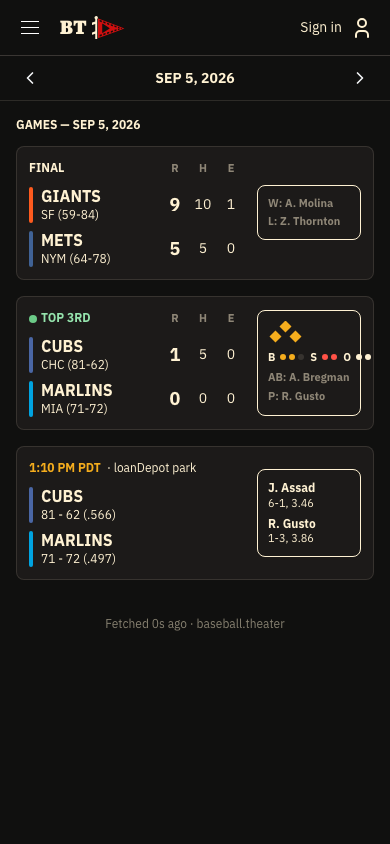
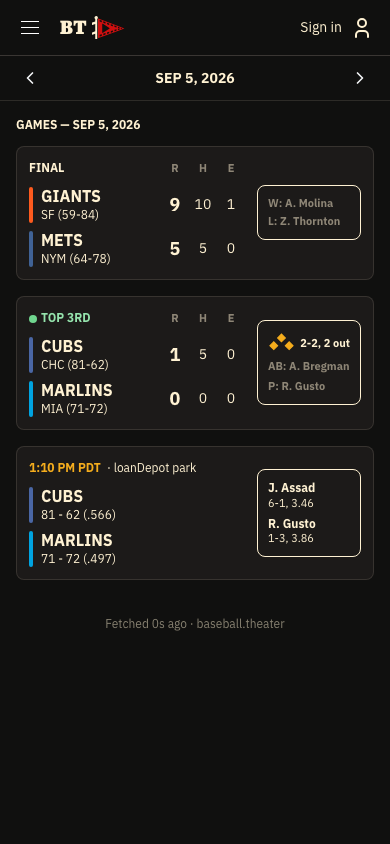
S67 checkpoint 2 (still parked for the owner's design match): the live slot's count is shorthand text, no pips (owner, 2026-10-30: "There shouldn't be pips in s67. BSO are just shorthand text as seen in the design"). countShorthand in packages/domain ("2-2, 2 out"), shown beside the BaseDiamond; the
Claude-Session: https://claude.ai/code/session_01FZHj4BTD58DQYzKRj8jroB

Changed region(s): [[0.6462, 0.3697, 0.9538, 0.4929], [0.8923, 0.4621, 0.9231, 0.4929]]

diff --git a/web/src/components/scoreboard/GameRowSlot.test.tsx b/web/src/components/scoreboard/GameRowSlot.test.tsx
@@ -85,22 +85,15 @@ describe("GameRowSlot Status (S67)", () =>
 		expect(slot.queryByText(/^S:/)).toBeNull();
 	});
 
-	it("count on a live game: the shared BaseDiamond and BsoPips (bases loaded, 2–2, two out), then AB / P", () =>
+	it("count on a live game: the shared BaseDiamond (bases loaded) beside the count as shorthand text, no pips, then AB / P", () =>
 	{
 		renderSlot(GAMES.live, "status");
 		const slot = within(screen.getByTestId("slot-count"));
 		expect(slot.getByRole("img", {
 			name: "Runners on second, third, first",
 		})).toBeInTheDocument();
-		expect(slot.getByRole("img", {
-			name: "Balls: 2 of 3",
-		})).toBeInTheDocument();
-		expect(slot.getByRole("img", {
-			name: "Strikes: 2 of 2",
-		})).toBeInTheDocument();
-		expect(slot.getByRole("img", {
-			name: "Outs: 2 of 2",
-		})).toBeInTheDocument();
+		expect(slot.getByText("2-2, 2 out")).toBeInTheDocument();
+		expect(slot.queryByTestId(/^pips-/)).toBeNull();
 		expect(slot.getByText("AB: A. Bregman")).toBeInTheDocument();
 		expect(slot.getByText("P: R. Gusto")).toBeInTheDocument();
 	});
@@ -246,14 +239,12 @@ function renderModule(game: ScoreboardGame)
 
 describe("sparse data (S66 module, S67 slot)", () =>
 {
-	it("sparse: a live game with no linescore or live moment reads LIVE, dashes for R·H·E, empty pips and no AB / P", () =>
+	it("sparse: a live game with no linescore or live moment reads LIVE, dashes for R·H·E, no count and no AB / P", () =>
 	{
 		renderModule(sparse("I"));
 		expect(screen.getByText("LIVE")).toBeInTheDocument();
 		expect(screen.getAllByTestId("runs").map((c) => c.textContent)).toEqual(["–", "–"]);
-		expect(screen.getByRole("img", {
-			name: "Balls: 0 of 3",
-		})).toBeInTheDocument();
+		expect(screen.queryByText(/out$/)).toBeNull();
 		expect(screen.queryByText(/^AB:/)).toBeNull();
 	});
 

diff --git a/web/src/components/scoreboard/GameRowSlot.tsx b/web/src/components/scoreboard/GameRowSlot.tsx
@@ -1,14 +1,13 @@
 import {
-	Anchor, Box, Stack, Text,
+	Anchor, Box, Group, Stack, Text,
 } from "@mantine/core";
 import type { ReactNode } from "react";
 import { Link } from "react-router-dom";
 import {
-	gamePhase, probableLine, roomsForPhase, slotOccupant,
+	countShorthand, gamePhase, probableLine, roomsForPhase, slotOccupant,
 } from "@bt/domain";
 import type { GameRowSlot as GameRowSlotSetting } from "@bt/domain";
 import { BaseDiamond } from "../game/BaseDiamond.js";
-import { BsoPips } from "../game/BsoPips.js";
 import { roomLabel, shortPlayerName } from "../game/format.js";
 import type { ScoreboardGame } from "./ScoreboardModule.js";
 
@@ -34,14 +33,20 @@ function PitchersOfRecord({ game }: { game: ScoreboardGame })
 	);
 }
 
-/** Live: the bases and the count, then who is batting and pitching. */
+/** Live: the bases beside the count as shorthand text (`0-2, 2 out`, no pips), then who is batting and pitching. */
 function Count({ game }: { game: ScoreboardGame })
 {
 	const live = game.live ?? null;
+	const count = live ? countShorthand(live) : null;
 	return (
 		<Stack gap={4} data-testid="slot-count">
-			<BaseDiamond live={live} />
-			<BsoPips balls={live?.balls ?? null} strikes={live?.strikes ?? null} outs={live?.outs ?? null} gap={6} />
+			<Group gap={6} wrap="nowrap">
+				<BaseDiamond live={live} />
+				{count ? <Text fz={11} fw={700} style={{
+					whiteSpace: "nowrap",
+				}}
+				>{count}</Text> : null}
+			</Group>
 			{live?.batterName ? <Line>AB: {shortPlayerName(live.batterName)}</Line> : null}
 			{live?.pitcherName ? <Line>P: {shortPlayerName(live.pitcherName)}</Line> : null}
 		</Stack>

diff --git a/packages/domain/src/slot-occupant.test.ts b/packages/domain/src/slot-occupant.test.ts
@@ -4,7 +4,9 @@ import {
 import type { GamePhase } from "./game-phase.js";
 import type { GameRowSlot } from "./settings.js";
 import type { SlotOccupant } from "./slot-occupant.js";
-import { probableLine, slotOccupant } from "./slot-occupant.js";
+import {
+	countShorthand, probableLine, slotOccupant,
+} from "./slot-occupant.js";
 
 describe("slotOccupant (S67)", () =>
 {
@@ -48,6 +50,32 @@ describe("probableLine (S67)", () =>
 			wins: null,
 			losses: null,
 			era: null,
+		})).toBeNull();
+	});
+});
+
+describe("countShorthand (S67)", () =>
+{
+	it("balls-strikes, then outs, as the frame writes it", () =>
+	{
+		expect(countShorthand({
+			balls: 0,
+			strikes: 2,
+			outs: 2,
+		})).toBe("0-2, 2 out");
+		expect(countShorthand({
+			balls: 3,
+			strikes: 1,
+			outs: null,
+		})).toBe("3-1");
+	});
+
+	it("null until MLB sends a count", () =>
+	{
+		expect(countShorthand({
+			balls: null,
+			strikes: 0,
+			outs: 1,
 		})).toBeNull();
 	});
 });

diff --git a/packages/domain/src/slot-occupant.ts b/packages/domain/src/slot-occupant.ts
@@ -33,3 +33,17 @@ export function probableLine(pitcher: Pick<ProbablePitcher, "wins" | "losses" | 
 	const parts = [record, pitcher.era].filter((part): part is string => part !== null);
 	return parts.length > 0 ? parts.join(", ") : null;
 }
+
+/**
+ * The count as the live slot writes it, `0-2, 2 out` — balls-strikes, then outs, as
+ * shorthand text, not pips (owner, 2026-10-30: "BSO are just shorthand text as seen in
+ * the design"). `null` until MLB sends a count.
+ */
+export function countShorthand(count: { balls: number | null;
+	strikes: number | null;
+	outs: number | null; }): string | null
+{
+	if (count.balls === null || count.strikes === null) return null;
+	const pitchCount = `${count.balls}-${count.strikes}`;
+	return count.outs === null ? pitchCount : `${pitchCount}, ${count.outs} out`;
+}

diff --git a/e2e/design/S67.spec.ts b/e2e/design/S67.spec.ts
@@ -11,9 +11,7 @@
  * scheduled slot shows the probables, not win probability (owner, 2026-10-19: Status is
  * pitchers / count / probables; win probability is left out at launch), and the
  * scheduled module body no longer repeats them; probables carry no throwing hand (the
- * scoreboard data has none); the count is the shared ball / strike / out pips beside the
- * bases (the story reuses `BsoPips`) rather than the frame's "0-2, 2 out" text; the
- * module itself is S66's; the "Best of … highlights" digest is not built yet; the room
+ * scoreboard data has none); the module itself is S66's; the "Best of … highlights" digest is not built yet; the room
  * menu frame's signed-in header shows the account icon; the footer's "Fetched … ago"
  * is the real time.
  */

diff --git a/docs/v3/BACKLOG.md b/docs/v3/BACKLOG.md
@@ -4060,7 +4060,7 @@ Reuse `shipping_commit` and `reverify_at` from `scripts/lib/reverify.sh` and the
 
 1. `slotOccupant(setting, phase)` in `packages/domain` returns pitchers-of-record / count / probables for **Status** by phase, and room-menu otherwise (table test).
 2. The room-menu occupant lists exactly `roomsForPhase(gamePhase(game))` as links to `/game/:pk/:room` (test per phase).
-3. The count occupant reuses `BaseDiamond` and `BsoPips` (grep shows no second diamond).
+3. The count occupant reuses `BaseDiamond` and shows the count as shorthand text, `0-2, 2 out`, from `countShorthand` in `packages/domain` — no pips (owner, 2026-10-30: *"There shouldn’t be pips in s67. BSO are just shorthand text as seen in the design"*) (grep shows no second diamond).
 4. Settings → Game List has a Game-Row Slot radio with exactly Status (default) and Room Menu; changing it re-renders a mounted scoreboard without reload and saves to the account (test).
 5. Files this story adds or edits contain no team-logo `<img>` or `/logos/` reference and do not call `useMediaQuery`, `hiddenFrom` or `visibleFrom` outside `web/src/layout/` (grep).
 6. Design match (rule 22): for each ratified frame this story builds (every state and pairing its ACs name; desktop captured at 1200px, owner 2026-10-28: *"Capture at 1200px"*), `pnpm design:capture S67` (S81) saves the built page in that state and pairing to `docs/v3/design-checks/S67/<frame>.png` from `e2e/design/S67.spec.ts`; the grader checks each file exists at its pairing's width. Regions a later story builds are listed in the spec as expected differences and not judged (owner, 2026-10-28: *"Judge only the story's own parts"*). The story parks `blocked` with its captures committed until the owner says each pair matches, recorded with `scripts/audit.sh story S67 --design-match -`.

diff --git a/docs/v3/backlog/stories/S67.md b/docs/v3/backlog/stories/S67.md
@@ -51,7 +51,7 @@ scope_files:
 
 1. `slotOccupant(setting, phase)` in `packages/domain` returns pitchers-of-record / count / probables for **Status** by phase, and room-menu otherwise (table test).
 2. The room-menu occupant lists exactly `roomsForPhase(gamePhase(game))` as links to `/game/:pk/:room` (test per phase).
-3. The count occupant reuses `BaseDiamond` and `BsoPips` (grep shows no second diamond).
+3. The count occupant reuses `BaseDiamond` and shows the count as shorthand text, `0-2, 2 out`, from `countShorthand` in `packages/domain` — no pips (owner, 2026-10-30: *"There shouldn’t be pips in s67. BSO are just shorthand text as seen in the design"*) (grep shows no second diamond).
 4. Settings → Game List has a Game-Row Slot radio with exactly Status (default) and Room Menu; changing it re-renders a mounted scoreboard without reload and saves to the account (test).
 5. Files this story adds or edits contain no team-logo `<img>` or `/logos/` reference and do not call `useMediaQuery`, `hiddenFrom` or `visibleFrom` outside `web/src/layout/` (grep).
 6. Design match (rule 22): for each ratified frame this story builds (every state and pairing its ACs name; desktop captured at 1200px, owner 2026-10-28: *"Capture at 1200px"*), `pnpm design:capture S67` (S81) saves the built page in that state and pairing to `docs/v3/design-checks/S67/<frame>.png` from `e2e/design/S67.spec.ts`; the grader checks each file exists at its pairing's width. Regions a later story builds are listed in the spec as expected differences and not judged (owner, 2026-10-28: *"Judge only the story's own parts"*). The story parks `blocked` with its captures committed until the owner says each pair matches, recorded with `scripts/audit.sh story S67 --design-match -`.
